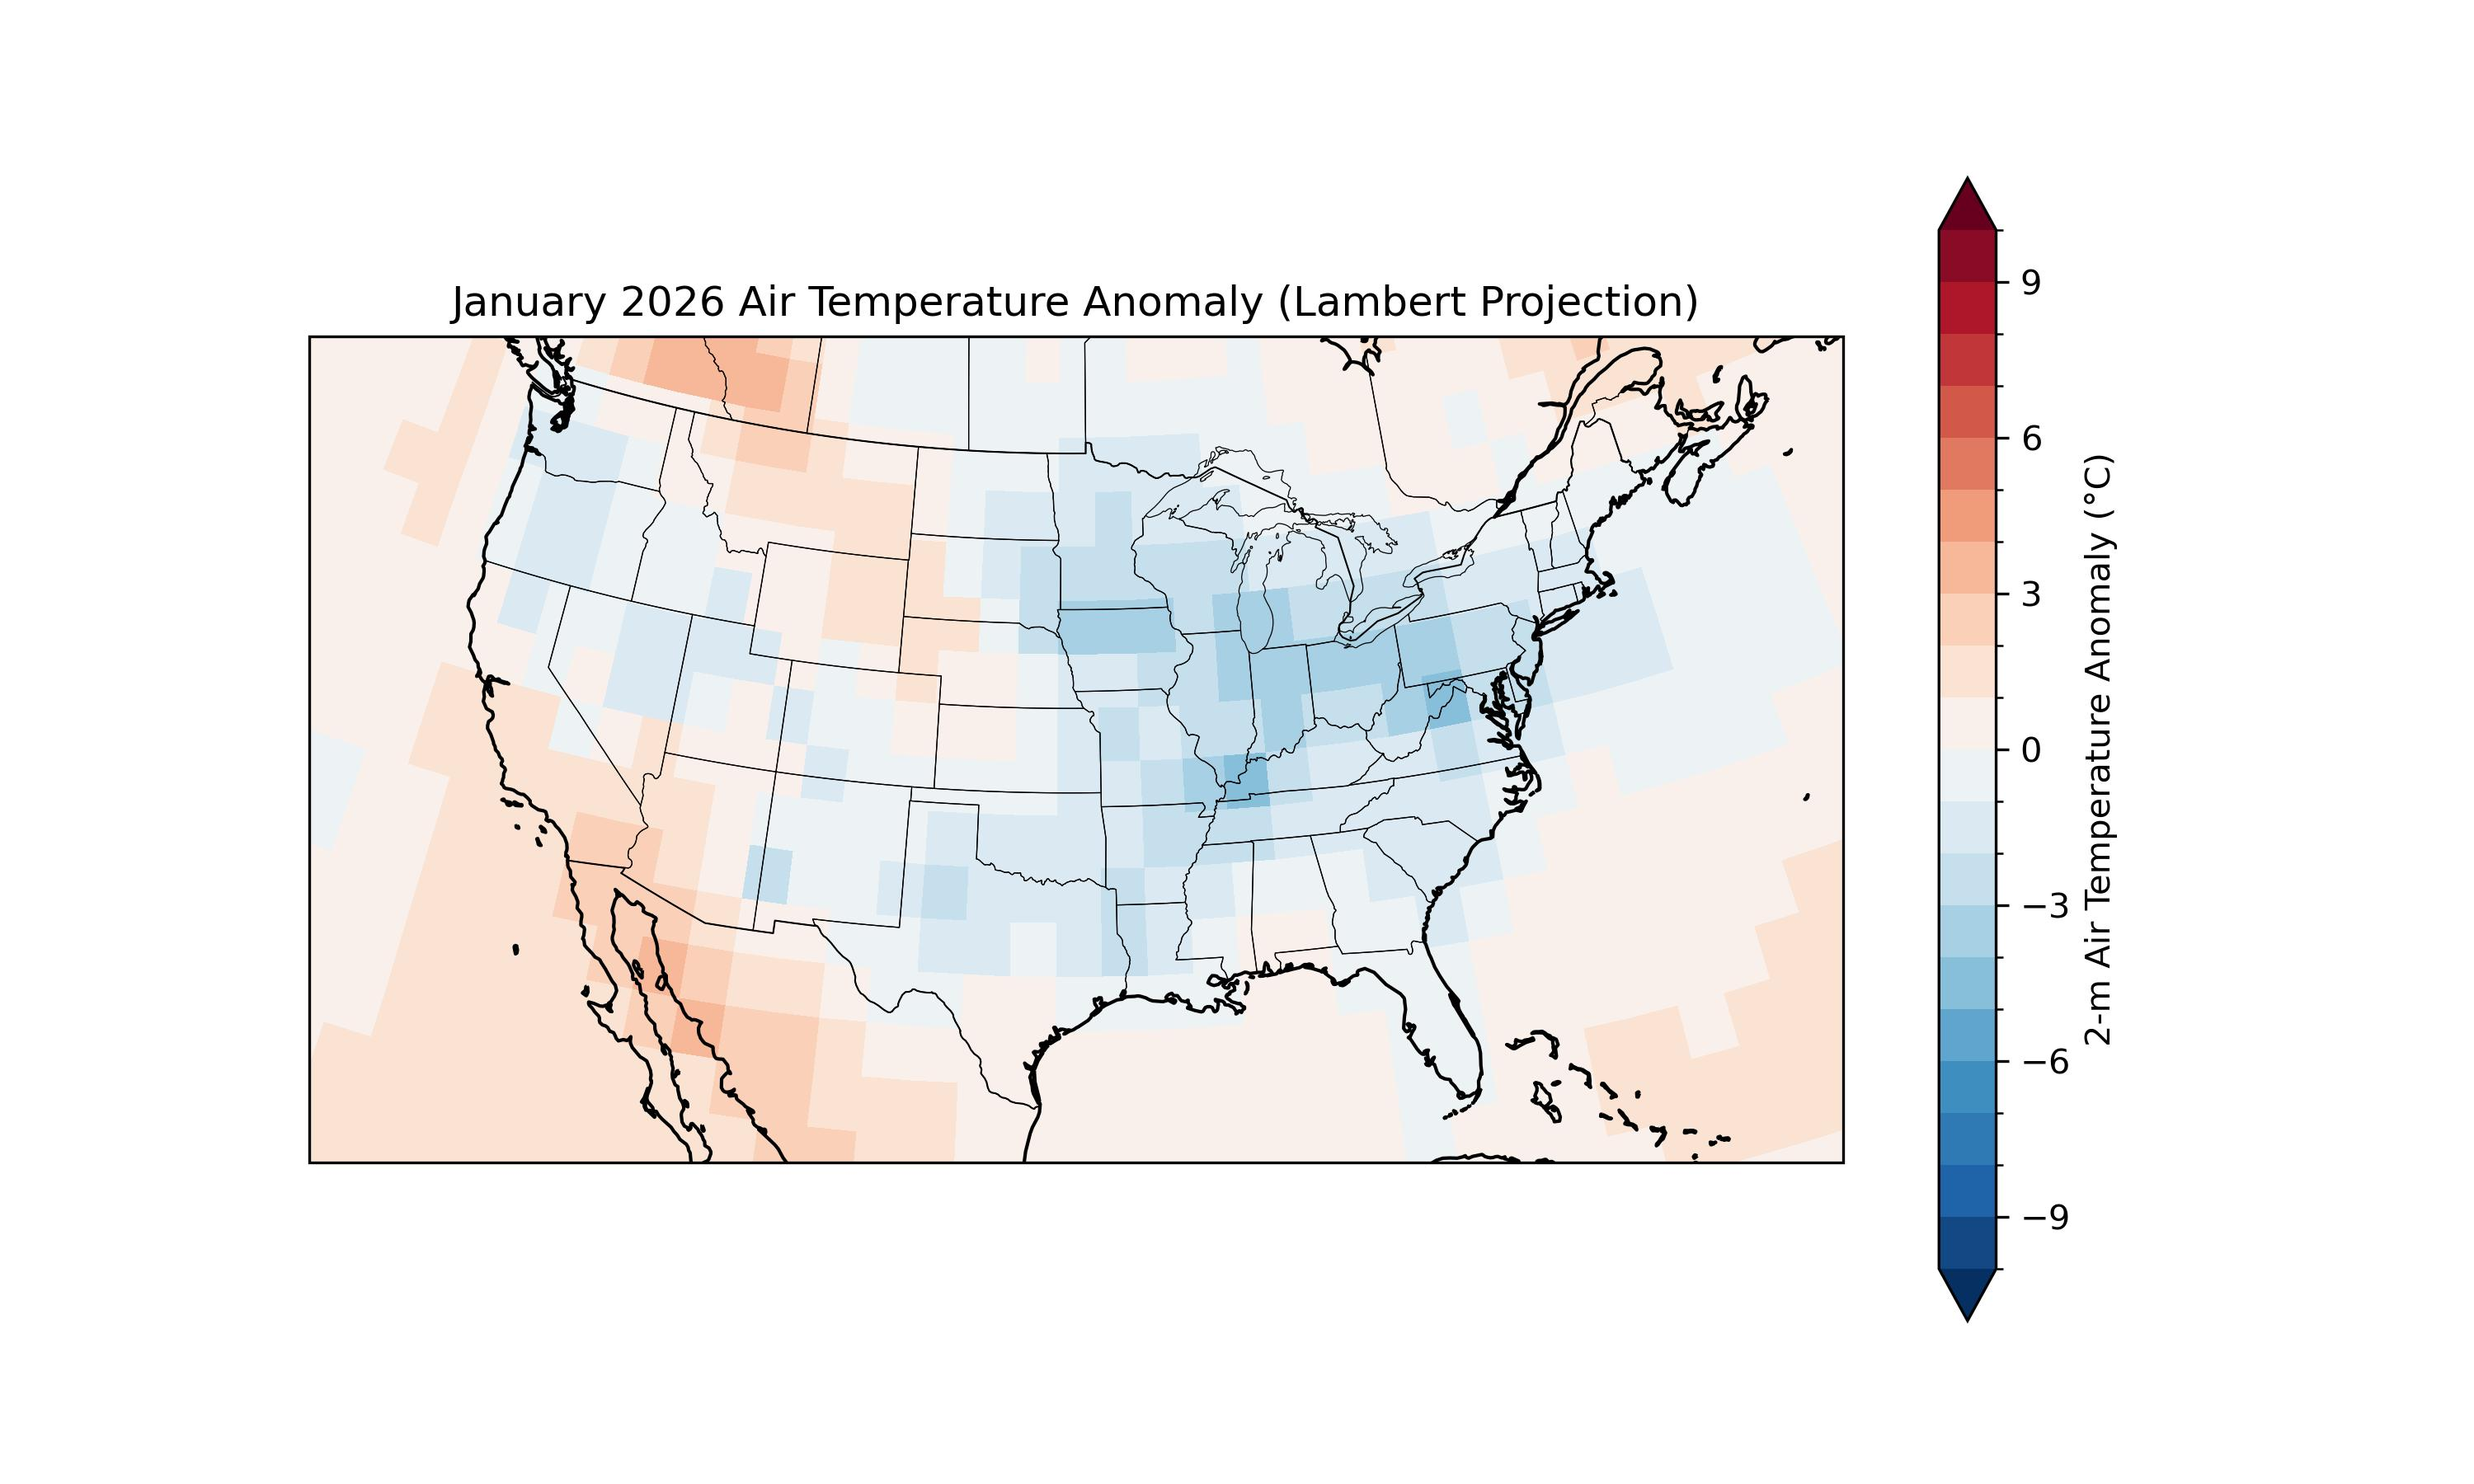
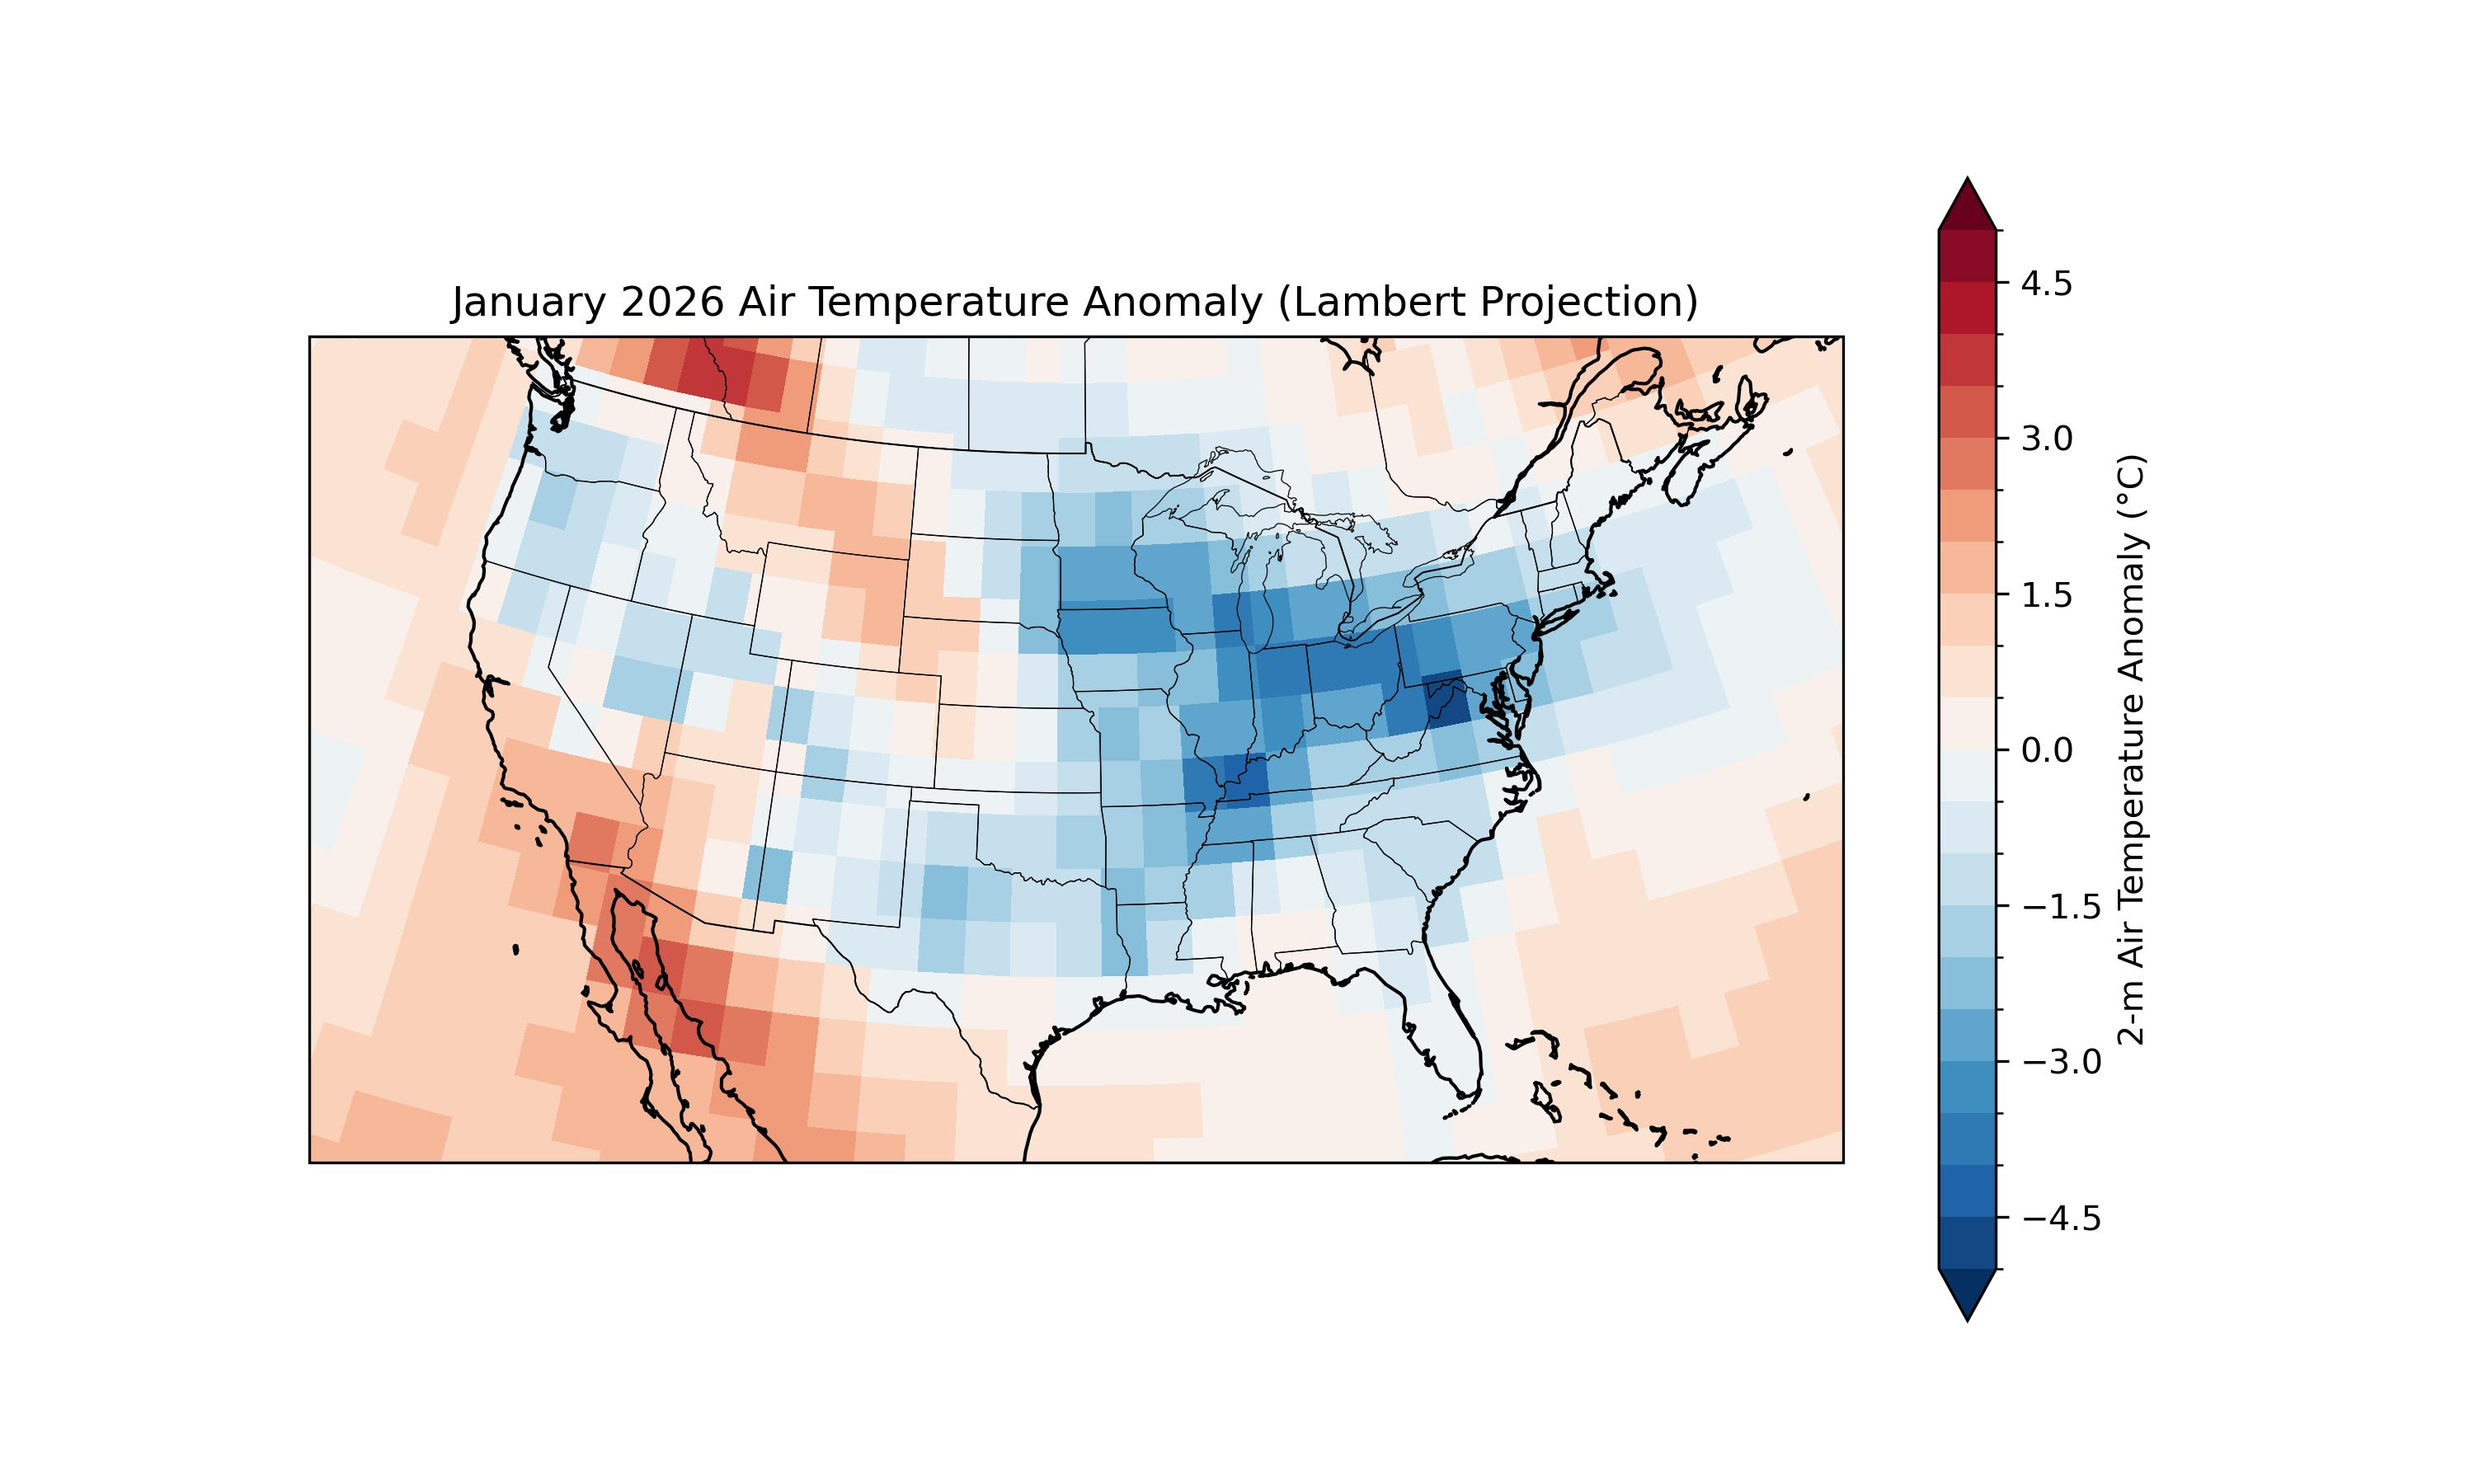
Revised week09

diff --git a/python/week09_map_projections/solution/w09_01_platecarree_airT_anomaly.solution.py b/python/week09_map_projections/solution/w09_01_platecarree_airT_anomaly.solution.py
@@ -41,6 +41,17 @@ import cartopy.feature as cfeature
 from pathlib import Path
 import sys
 
+import warnings
+warnings.filterwarnings(
+    "ignore",
+    message="invalid value encountered in create_collection",
+    category=RuntimeWarning
+)
+
+# -----------------------------
+# Load data
+# -----------------------------
+
 # Example NOAA PSL OPeNDAP URLs
 air_url = "https://psl.noaa.gov/thredds/dodsC/Datasets/ncep.reanalysis.derived/surface/air.mon.mean.nc"
 prate_url = "https://psl.noaa.gov/thredds/dodsC/Datasets/ncep.reanalysis.derived/surface/prate.sfc.mon.mean.nc"
@@ -63,13 +74,15 @@ air = ds["air"]
 air_c = air - 273.15
 
 # Example: January climatology
-jan_clim = air_c.sel(time=slice("1991-01-01", "2020-12-31")).where(
-    air_c["time.month"] == 1, drop=True
-).mean("time")
+jan_clim = air_c.sel(time=slice("1991-01-01", "2020-12-31")
+    ).where(air_c["time.month"] == 1, drop=True).mean("time")
 
 # Example: January 2026 anomaly
 jan_2026 = air_c.sel(time="2026-01-01")
 anom = jan_2026 - jan_clim
+
+print("Anomaly Minimum = ",anom.min().values)
+print("Anomaly Maximum = ",anom.max().values)
 
 # Plot
 fig = plt.figure(figsize=(10, 5))

diff --git a/python/week09_map_projections/w09_01_platecarree_airT_anomaly.sample.py b/python/week09_map_projections/w09_01_platecarree_airT_anomaly.sample.py
@@ -41,6 +41,18 @@ import cartopy.feature as cfeature
 from pathlib import Path
 import sys
 
+import warnings
+warnings.filterwarnings(
+    "ignore",
+    message="invalid value encountered in create_collection",
+    category=RuntimeWarning
+)
+
+
+# -----------------------------
+# Load data
+# -----------------------------
+
 # Example NOAA PSL OPeNDAP URLs
 air_url = "https://psl.noaa.gov/thredds/dodsC/Datasets/ncep.reanalysis.derived/surface/air.mon.mean.nc"
 prate_url = "https://psl.noaa.gov/thredds/dodsC/Datasets/ncep.reanalysis.derived/surface/prate.sfc.mon.mean.nc"
@@ -70,6 +82,9 @@ jan_clim = air_c.sel(time=slice("1991-01-01", "2020-12-31")).where(
 # Example: January 2026 anomaly
 jan_2026 = air_c.sel(time="2026-01-01")
 anom = jan_2026 - jan_clim
+
+print("Anomaly Minimum = ",anom.min().values)
+print("Anomaly Maximum = ",anom.max().values)
 
 # Plot
 fig = plt.figure(figsize=(10, 5))

diff --git a/python/week09_map_projections/solution/w09_02_robinson_airT_anomaly.solution.py b/python/week09_map_projections/solution/w09_02_robinson_airT_anomaly.solution.py
@@ -21,6 +21,17 @@ import cartopy.feature as cfeature
 from pathlib import Path
 import sys
 
+import warnings
+warnings.filterwarnings(
+    "ignore",
+    message="invalid value encountered in create_collection",
+    category=RuntimeWarning
+)
+
+# -----------------------------
+# Load data
+# -----------------------------
+
 # Example NOAA PSL OPeNDAP URLs
 air_url = "https://psl.noaa.gov/thredds/dodsC/Datasets/ncep.reanalysis.derived/surface/air.mon.mean.nc"
 prate_url = "https://psl.noaa.gov/thredds/dodsC/Datasets/ncep.reanalysis.derived/surface/prate.sfc.mon.mean.nc"
@@ -44,6 +55,9 @@ jan_clim = air_c.sel(time=slice("1991-01-01", "2020-12-31")).where(
 # Example: January 2026 anomaly
 jan_2026 = air_c.sel(time="2026-01-01")
 anom = jan_2026 - jan_clim
+
+print("Anomaly Minimum = ",anom.min().values)
+print("Anomaly Maximum = ",anom.max().values)
 
 # Plot
 fig = plt.figure(figsize=(10, 5))

diff --git a/python/week09_map_projections/w09_02_robinson_airT_anomaly.sample.py b/python/week09_map_projections/w09_02_robinson_airT_anomaly.sample.py
@@ -21,6 +21,17 @@ import cartopy.feature as cfeature
 from pathlib import Path
 import sys
 
+import warnings
+warnings.filterwarnings(
+    "ignore",
+    message="invalid value encountered in create_collection",
+    category=RuntimeWarning
+)
+
+# -----------------------------
+# Load data
+# -----------------------------
+
 # Example NOAA PSL OPeNDAP URLs
 air_url = "https://psl.noaa.gov/thredds/dodsC/Datasets/ncep.reanalysis.derived/surface/air.mon.mean.nc"
 prate_url = "https://psl.noaa.gov/thredds/dodsC/Datasets/ncep.reanalysis.derived/surface/prate.sfc.mon.mean.nc"
@@ -44,6 +55,9 @@ jan_clim = air_c.sel(time=slice("1991-01-01", "2020-12-31")).where(
 # Example: January 2026 anomaly
 jan_2026 = air_c.sel(time="2026-01-01")
 anom = jan_2026 - jan_clim
+
+print("Anomaly Minimum = ",anom.min().values)
+print("Anomaly Maximum = ",anom.max().values)
 
 # Plot
 fig = plt.figure(figsize=(10, 5))

diff --git a/python/week09_map_projections/solution/w09_05_robinson_precip_NetCDF.solution.py b/python/week09_map_projections/solution/w09_05_robinson_precip_NetCDF.solution.py
@@ -33,6 +33,11 @@ warnings.filterwarnings(
     category=RuntimeWarning
 )
 
+
+# -----------------------------
+# Load data
+# -----------------------------
+
 # Example NOAA PSL OPeNDAP URLs
 #air_url = "https://psl.noaa.gov/thredds/dodsC/Datasets/ncep.reanalysis.derived/surface/air.mon.mean.nc"
 #prate_url = "https://psl.noaa.gov/thredds/dodsC/Datasets/ncep.reanalysis.derived/surface_gauss/prate.sfc.mon.mean.nc"
@@ -72,8 +77,9 @@ jan_clim = ref.groupby("time.month").mean("time").sel(month=1)
 jan_2026 = dat_c.sel(time="2026-01-01")
 anom = jan_2026 - jan_clim
 
-print(anom.min().values)
-print(anom.max().values)
+print("Anomaly Minimum = ",anom.min().values)
+print("Anomaly Maximum = ",anom.max().values)
+
 
 # Add cyclic point to close the 0/360 longitude seam
 anom_cyclic, lon_cyclic = add_cyclic_point(anom.values, coord=anom.lon)

diff --git a/python/week09_map_projections/w09_04_robinson_precip.py b/python/week09_map_projections/w09_04_robinson_precip.py
@@ -33,6 +33,10 @@ warnings.filterwarnings(
     category=RuntimeWarning
 )
 
+# -----------------------------
+# Load data
+# -----------------------------
+
 # Example NOAA PSL OPeNDAP URLs
 air_url = "https://psl.noaa.gov/thredds/dodsC/Datasets/ncep.reanalysis.derived/surface/air.mon.mean.nc"
 prate_url = "https://psl.noaa.gov/thredds/dodsC/Datasets/ncep.reanalysis.derived/surface_gauss/prate.sfc.mon.mean.nc"
@@ -58,8 +62,8 @@ jan_clim = ref.groupby("time.month").mean("time").sel(month=1)
 jan_2026 = dat_c.sel(time="2026-01-01")
 anom = jan_2026 - jan_clim
 
-print(anom.min().values)
-print(anom.max().values)
+print("Anomaly Minimum = ",anom.min().values)
+print("Anomaly Maximum = ",anom.max().values)
 
 # Add cyclic point to close the 0/360 longitude seam
 anom_cyclic, lon_cyclic = add_cyclic_point(anom.values, coord=anom.lon)

diff --git a/python/week09_map_projections/solution/w09_07_Lambert_USA.solution.py b/python/week09_map_projections/solution/w09_07_Lambert_USA.solution.py
@@ -31,6 +31,10 @@ warnings.filterwarnings(
     category=RuntimeWarning
 )
 
+# -----------------------------
+# Load data
+# -----------------------------
+
 # NOAA PSL OPeNDAP URL
 #air_url = (
 #    "https://psl.noaa.gov/thredds/dodsC/"
@@ -73,8 +77,8 @@ jan_clim = ref.groupby("time.month").mean("time").sel(month=1)
 jan_2026 = air_c.sel(time="2026-01-01").squeeze()
 anom = jan_2026 - jan_clim
 
-print(anom.min().values)
-print(anom.max().values)
+print("Anomaly Minimum = ",anom.min().values)
+print("Anomaly Maximum = ",anom.max().values)
 
 
 # Create figure
@@ -100,7 +104,7 @@ ax = plt.axes(
 # For example:
 #   np.arange(-10, 10.1, 1)  -> -10 to +10 °C, every 1 °C
 #   np.arange(-15, 15.1, 1)  -> -15 to +15 °C, every 1 °C
-clevs = np.arange(-10, 10.1, 1)
+clevs = np.arange(-5, 5.1, 0.5)
 
 anom.plot(
     ax=ax,

diff --git a/python/week09_map_projections/w09_09_Lambert_features.py b/python/week09_map_projections/w09_09_Lambert_features.py
@@ -62,8 +62,8 @@ jan_clim = ref.groupby("time.month").mean("time").sel(month=1)
 jan_2026 = air_c.sel(time="2026-01-01").squeeze()
 anom = jan_2026 - jan_clim
 
-print(anom.min().values)
-print(anom.max().values)
+print("Anomaly Minimum = ",anom.min().values)
+print("Anomaly Maximum = ",anom.max().values)
 
 # ---------------------------------------------------------
 # Create figure and map projection
@@ -105,7 +105,7 @@ ax.add_feature(cfeature.STATES, linewidth=0.3)
 # Use a diverging color map because anomalies have both
 # negative and positive values relative to climatology.
 
-clevs = np.arange(-10, 10.1, 1)
+clevs = np.arange(-5, 5.1, 0.5)
 
 p = anom.plot(
     ax=ax,

diff --git a/python/week09_map_projections/w09_06_Lambert_airT_anomaly.py b/python/week09_map_projections/w09_06_Lambert_airT_anomaly.py
@@ -25,6 +25,10 @@ warnings.filterwarnings(
     category=RuntimeWarning
 )
 
+# -----------------------------
+# Load data
+# -----------------------------
+
 # NOAA PSL OPeNDAP URL
 #air_url = (
 #    "https://psl.noaa.gov/thredds/dodsC/"
@@ -54,8 +58,8 @@ jan_clim = ref.groupby("time.month").mean("time").sel(month=1)
 jan_2026 = air_c.sel(time="2026-01-01").squeeze()
 anom = jan_2026 - jan_clim
 
-print(anom.min().values)
-print(anom.max().values)
+print("Anomaly Minimum = ",anom.min().values)
+print("Anomaly Maximum = ",anom.max().values)
 
 # Create figure
 fig = plt.figure(figsize=(10, 6))

diff --git a/python/week09_map_projections/w09_07_Lambert_USA.sample.py b/python/week09_map_projections/w09_07_Lambert_USA.sample.py
@@ -30,6 +30,11 @@ warnings.filterwarnings(
     category=RuntimeWarning
 )
 
+
+# -----------------------------
+# Load data
+# -----------------------------
+
 # NOAA PSL OPeNDAP URL
 #air_url = (
 #    "https://psl.noaa.gov/thredds/dodsC/"
@@ -72,8 +77,8 @@ jan_clim = ref.groupby("time.month").mean("time").sel(month=1)
 jan_2026 = air_c.sel(time="2026-01-01").squeeze()
 anom = jan_2026 - jan_clim
 
-print(anom.min().values)
-print(anom.max().values)
+print("Anomaly Minimum = ",anom.min().values)
+print("Anomaly Maximum = ",anom.max().values)
 
 
 # Create figure

diff --git a/python/week09_map_projections/solution/w09_08_Lambert_regions.solution.py b/python/week09_map_projections/solution/w09_08_Lambert_regions.solution.py
@@ -15,7 +15,6 @@
 #   3. the map domain in ax.set_extent()
 # ---------------------------------------------------------
 
-
 import xarray as xr
 import numpy as np
 import matplotlib.pyplot as plt
@@ -31,6 +30,10 @@ warnings.filterwarnings(
     category=RuntimeWarning
 )
 
+
+# -----------------------------
+# Load data
+# -----------------------------
 # NOAA PSL OPeNDAP URL
 #air_url = (
 #    "https://psl.noaa.gov/thredds/dodsC/"

diff --git a/python/week09_map_projections/w09_03_robinson_rotated.py b/python/week09_map_projections/w09_03_robinson_rotated.py
@@ -57,8 +57,8 @@ jan_clim = air_c.sel(time=slice("1991-01-01", "2020-12-31")).where(
 jan_2026 = air_c.sel(time="2026-01-01")
 anom = jan_2026 - jan_clim
 
-print(anom.min().values)
-print(anom.max().values)
+print("Anomaly Minimum = ",anom.min().values)
+print("Anomaly Maximum = ",anom.max().values)
 
 # Add cyclic point to close the 0/360 longitude seam
 anom_cyclic, lon_cyclic = add_cyclic_point(anom.values, coord=anom.lon)
